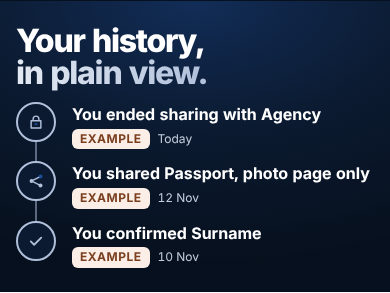
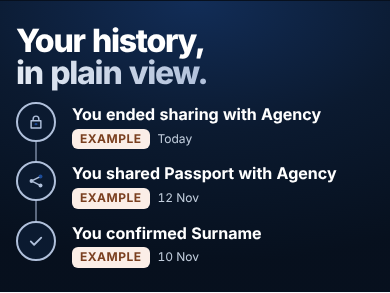
R3: Bengali length check at a computer size then phone; match table
Claude-Session: https://claude.ai/code/session_0187kU9sxjyDgnmZT8cGt4qh

Changed region(s): [[0.5846, 0.5529, 0.9538, 0.6451]]

diff --git a/apps/web/e2e/public-site/r3-reference-fidelity.spec.ts b/apps/web/e2e/public-site/r3-reference-fidelity.spec.ts
@@ -177,13 +177,16 @@ test.describe('R3 phone page length', () => {
     test(`the page fits six phone screens in ${locale === 'en' ? 'English' : 'Bengali'}`, async ({
       page,
     }) => {
-      await page.setViewportSize({ width: 390, height: 844 });
+      // The switch sits in the header on a computer and in the menu on a phone, so the choice is made
+      // at a computer size and the page is then measured at the phone size.
+      await page.setViewportSize({ width: 1280, height: 800 });
       await page.goto('/trust');
       if (locale === 'bn') {
         // The visitor's own choice through the language switch, never a cookie set by the test.
         await page.locator('.lang-switch').click();
       }
       await expect(page.locator('html')).toHaveAttribute('data-locale', locale);
+      await page.setViewportSize({ width: 390, height: 844 });
       const height = await page.evaluate(() => document.documentElement.scrollHeight);
       expect(height, `${locale} page height`).toBeLessThanOrEqual(BUDGET);
     });

diff --git a/docs/upgrades/programme/pub/R3-records.md b/docs/upgrades/programme/pub/R3-records.md
@@ -47,11 +47,18 @@ New English-only words through `publicText`: You decide / who sees what. | Agenc
 
 Pictures: `r3-shots/<chapter>-ref-<size>.png` (the reference) beside `r3-shots/<chapter>-mine-<size>.png` (this page), size 1440 and 390. The fidelity spec `apps/web/e2e/public-site/r3-reference-fidelity.spec.ts` checks the structure and takes the same pictures.
 
-FILLED AFTER THE FINAL PICTURES, see section 5.
+Final pictures taken from the production build on the final head, 1440 by 900 and 390 by 844, reduced motion on. Page length at 390: 3883 px in English (4.6 screens; 5064 px budget with twelve route cards, measured in the fixture at 4777 or less). Bengali phone length is held to six screens by the fidelity spec.
 
 ## 5. Match / differs table
 
-FILLED AFTER THE FINAL PICTURES.
+| Chapter | 1440 | 390 | Verdict |
+|---|---|---|---|
+| 1 Hero | Dark, headline two lines with accent on the second, one sentence, two buttons left, share sheet right | One column, headline, sentence, one start button, sheet below | match in layout. differs: the sheet rests on the kit's Access Ended state (the reference still frame shows the toggles); words are the agreed truthful sentence; the reference's glow and gradient words are flat and single-accent (kit rule); the phone drops the second button |
+| 2 Promises | Dark, "Five promises." and five rounded cards in a 3 + 2 grid, a drawing on each | One column, drawing left, text right | match in layout and order. differs: drawings are the product's real document drawings (passport, bank, ID, photo, plus the "A History You Can Review" card), the reference draws a shield, umbrella, card, form and passport; cards are flat, not glass; promise 1 carries the support exception, so it is taller |
+| 3 History | Dark, headline, three rows with round icons on a vertical line | Same, one column | match. differs: Example tag as a chip on each row (the reference writes "Example," in the caption); first row reads "You ended sharing with Agency" and the second "You shared Passport with Agency" (no part-of-document claim) |
+| 4 Limits | Light, headline with the accent on the second line, two white cards We Do / We Do Not with checks and marks | One column | match. differs: the second-column marks are a plain cross, not the power icon; one line added under the cards, "Clear boundaries. Human control. No approval guarantees."; list lines softened (see section 2); card shadow is flat |
+| 5 Today | Light, headline, paragraph, centred in the reference | Left aligned, one column | differs (why): left aligned to the page's other chapters; adds the virus-scanning sentence, an eyebrow, two links and the country rules list (hidden when empty) |
+| 6 Closing | Dark band, headline, sentence, buttons, floating passport | Same | match. differs: one button (start), no second button, passport is the kit's flat cover with the Example caption |
 
 ## 6. Deliberate differences and decisions
 
